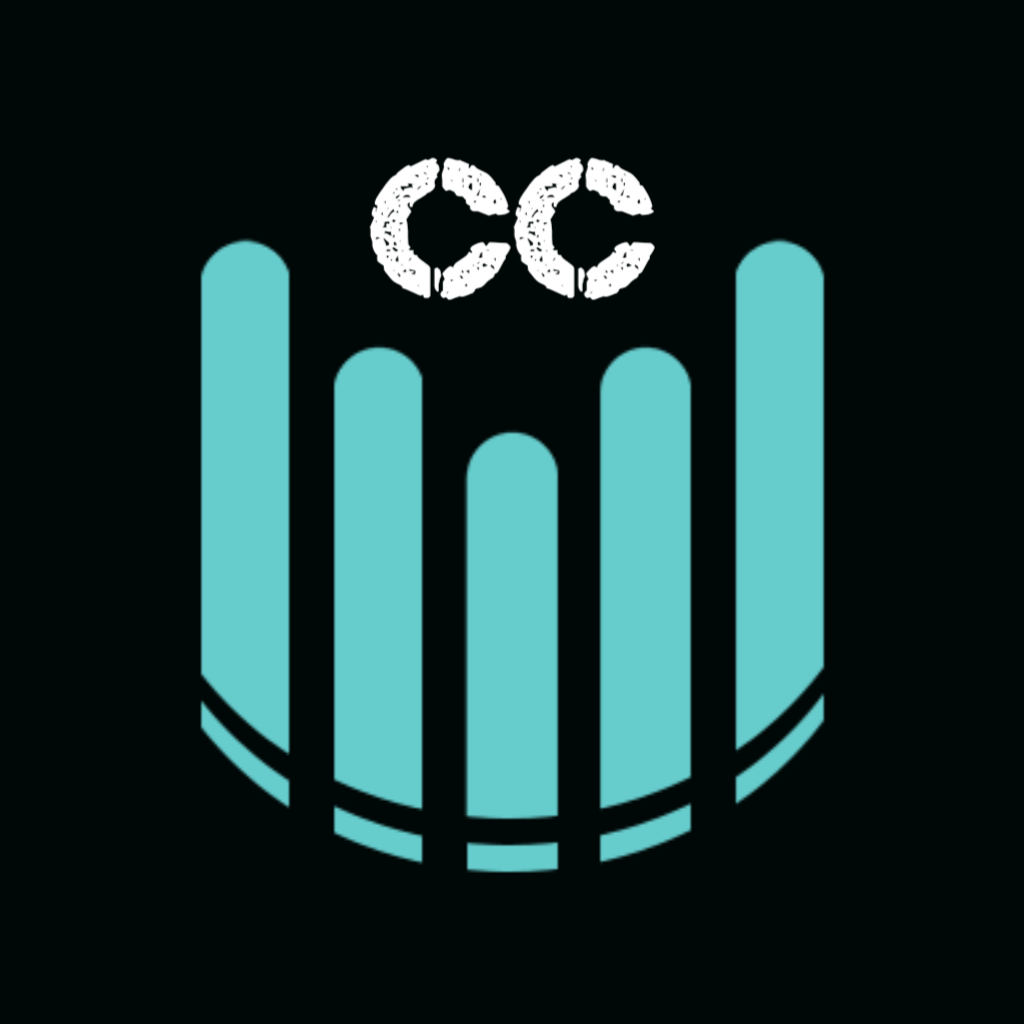
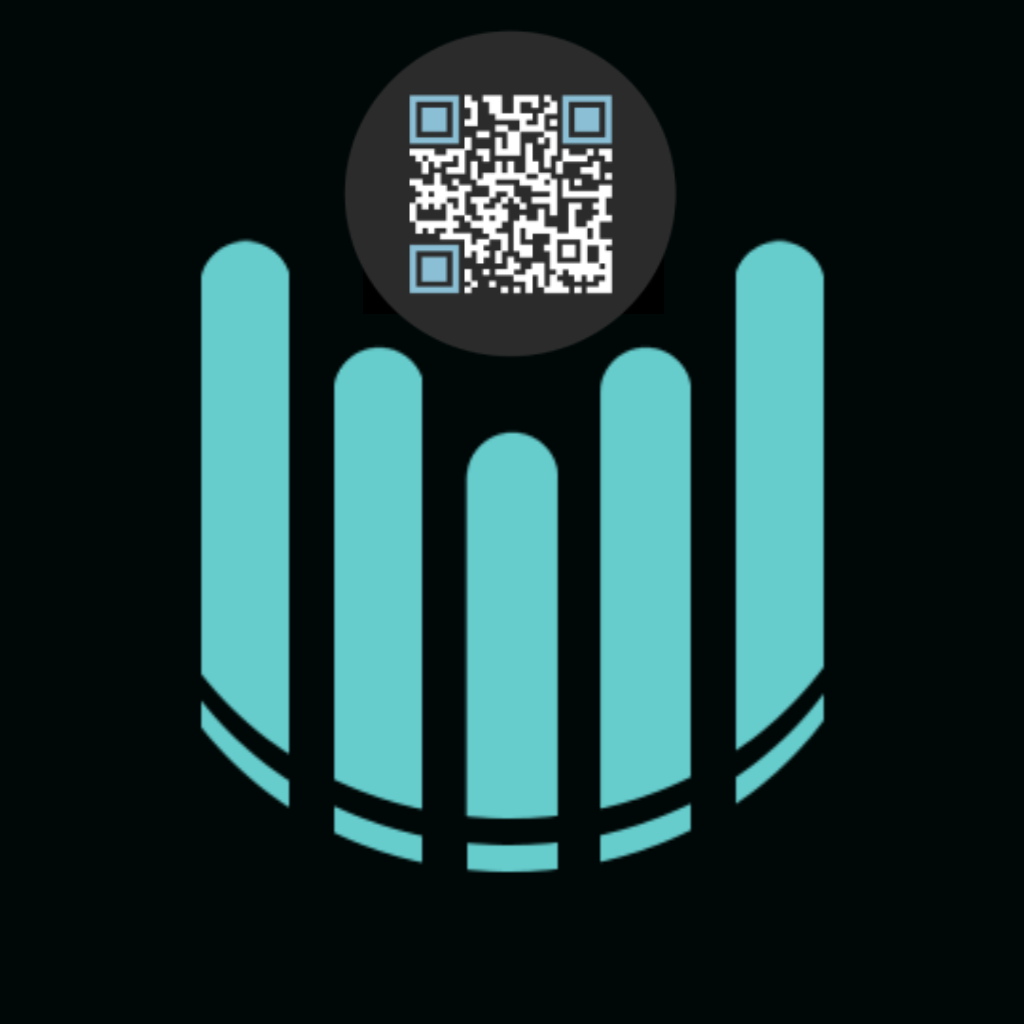
app con funcionalidad

Changed region(s): [[0.3125, 0.0312, 0.6562, 0.375]]

diff --git a/src/app/home/home.page.ts b/src/app/home/home.page.ts
@@ -1,12 +1,102 @@
-import { Component } from '@angular/core';
+import { Component, OnInit } from '@angular/core';
+import { AuthService } from '../servicios/auth.service';
+import { DataService } from '../servicios/data.service';
+import { ScannerService } from '../servicios/scanner.service';
+import { ToastService } from '../servicios/toast.service';
 
 @Component({
   selector: 'app-home',
   templateUrl: 'home.page.html',
   styleUrls: ['home.page.scss'],
 })
-export class HomePage {
+export class HomePage implements OnInit {
 
-  constructor() {}
+  email: string;
+  saldo: any;
+  idUser: string;
+  nombreUsuario: string;
 
+  constructor(
+    private scanner: ScannerService,
+    private dataServ: DataService,
+    private Afauth: AuthService,
+    private toast: ToastService ) {
+  }
+
+  ngOnInit() {
+    this.idUser = this.Afauth.getCurrentUserId();
+    this.email = this.Afauth.getCurrentUserMail();
+    this.dataServ.getUsuarioByUid(this.idUser).subscribe(res => {
+      this.saldo = res[0].saldo;
+    });
+    this.nombreUsuario = this.email.split('@')[0];
+  }
+
+  logOut() {
+    this.Afauth.logout();
+  }
+
+  scan() {
+    this.scanner.scan()
+      .then(barcodeData => {
+
+        // 8c95def646b6127282ed50454b73240300dccabc = 10
+        // ae338e4e0cbb4e4bcffaf9ce5b409feb8edd5172 = 50
+        // 2786f4877b9091dcad7f35751bfcf5d5ea712b2f = 100
+
+        switch (barcodeData.text) {
+
+          case '8c95def646b6127282ed50454b73240300dccabc':
+            if ( (this.saldo === 0) || (this.saldo === 50) || (this.saldo === 100) || (this.saldo === 150 )) {
+              this.acreditar(10);
+            } else {
+              this.toast.errorToast('No se puede repetir la carga');
+            }
+            break;
+
+          case 'ae338e4e0cbb4e4bcffaf9ce5b409feb8edd5172 ':
+            if (this.saldo === 0 || this.saldo === 10 || this.saldo === 100 || this.saldo === 110) {
+              this.acreditar(50);
+            } else {
+              this.toast.errorToast('No se puede repetir la carga');
+            }
+            break;
+
+          case '2786f4877b9091dcad7f35751bfcf5d5ea712b2f':
+            if (this.saldo === 0 || this.saldo === 10 || this.saldo === 50 || this.saldo === 60) {
+              this.acreditar(100);
+            } else {
+              this.toast.errorToast('No se puede repetir la carga');
+            }
+            break;
+
+          default:
+            break;
+        }
+      }).catch(err => {
+        console.log('Error', err);
+      });
+  }
+
+  acreditar(monto: number) {
+    console.log('monto', monto);
+    const montoFinal = this.saldo + monto;
+    this.dataServ.updateDatabase(this.idUser, montoFinal)
+      .then(res => {
+        this.toast.confirmationToast('La carga se acreditó correctamente');
+      })
+      .catch(err => {
+        this.toast.errorToast('Ocurrió un error durante la carga');
+      });
+  }
+
+  limpiar() {
+    this.dataServ.updateDatabase(this.idUser, 0)
+      .then(res => {
+        this.toast.confirmationToast('Tu carga fue anulada');
+      })
+      .catch(err => {
+        this.toast.errorToast('Ocurrió un error al anular tu carga');
+      });
+  }
 }

diff --git a/src/app/home/home.page.html b/src/app/home/home.page.html
@@ -1,23 +1,43 @@
-<ion-header [translucent]="true">
+<ion-header>
   <ion-toolbar color="secondary">
-    <ion-buttons slot="start">
-      <ion-back-button></ion-back-button>
-    </ion-buttons>
+    <ion-button slot="end" fill="clear" (click)="logOut()">
+      <ion-icon style="color: aliceblue" name="log-out"></ion-icon>
+    </ion-button>
     <ion-title>
-      HOME
+      Carga de crédito
     </ion-title>
   </ion-toolbar>
 </ion-header>
 
-<ion-content [fullscreen]="true" color="darkBlue">
-  <ion-header collapse="condense">
-    <ion-toolbar>
-      <ion-title size="large">Blank</ion-title>
-    </ion-toolbar>
-  </ion-header>
+<ion-content>
 
-  <div id="container">
-    <strong>¡Bienvenid@!</strong>
-    <p>Esta es la app Carga de Crédito</p>
+  <div class="ion-padding">
+    <ion-card color="secondary" style="margin-top: 15%;">
+      <ion-card-header style="text-align: center;">
+        <ion-card-title style="font-size:x-large; color: black;"> <b> Carga: {{saldo | currency}} </b></ion-card-title>
+      </ion-card-header>
+      <ion-card-content style="text-align: center;">
+        <ion-label style="color:black; font-size:large"> Usuario: {{ nombreUsuario }} </ion-label>
+      </ion-card-content>
+    </ion-card>
+    <div style="text-align: center; margin-top: 20%;">
+      <ion-label style="margin:0px; font-size: large; color: white;"> Click para escanear QR </ion-label>
+      <ion-button class="marks-buttons" color="secondary" expand="block" (click)="scan()">
+        <img src="../../assets/manoQr.png" alt="" style="width: 80%; height: 80%;">
+      </ion-button>
+    </div>
   </div>
+
 </ion-content>
+
+<ion-footer>
+
+  <ion-toolbar>
+
+    <ion-button color="secondary" expand="block" (click)="limpiar()">
+      <span showWhen="ios">Anular carga</span>
+      <ion-icon name="md-close" showWhen="core,android,windows"></ion-icon>
+    </ion-button>
+
+  </ion-toolbar>
+</ion-footer>

diff --git a/src/app/componentes/login/login.page.html b/src/app/componentes/login/login.page.html
@@ -17,9 +17,9 @@
 </ion-header>
 
 <ion-content padding color="darkBlue">
-  <img src="assets/icon/icon.png" alt="" class="icon">
+  <img src="assets/logoQr.png" alt="" class="icon" style="margin-top: 15%;">
   <ion-label [hidden]='datosCorrectos' class="datos-incorrectos">Datos incorrectos</ion-label> 
-<ion-item color="darkBlue">
+<ion-item color="darkBlue" style="margin-top: 20%;">
   <ion-label position="floating">Correo electrónico</ion-label> 
   <ion-input type="text" [(ngModel)]="correo" name="correo"></ion-input>
 </ion-item> 
@@ -28,13 +28,14 @@
   <ion-input type="password" [(ngModel)]="clave" name="clave"></ion-input>
 </ion-item>
 <br>
-<ion-button expand="block" (click) = "onSubmitLogin()" color="secondary">Entrar</ion-button>
+<ion-button expand="block" (click) = "onSubmitLogin()" color="secondary" style="height: 55px;">Entrar</ion-button>
 
-<ion-item color="darkBlue">
-  <ion-label position="stacked">Usuario</ion-label>
-  <ion-select (ionChange)="onChange($event.target.value)" placeholder="Seleccione uno: ">
-    <ion-select-option *ngFor="let usuario of usuarios" value={{usuario.id}}> {{usuario.nombre}} </ion-select-option>
-  </ion-select>
-</ion-item>
+<div style="margin-top: 3%;">
+  <ion-button class="botones-3" fill="outline" (click)="onChange(0)">Admin</ion-button>
+  <ion-button class="botones-3" fill="outline" (click)="onChange(1)">Invitado</ion-button>
+  <ion-button class="botones-3" fill="outline" (click)="onChange(2)">Usuario</ion-button>
+  <ion-button class="botones-2" fill="outline" (click)="onChange(3)">Anónimo</ion-button>
+  <ion-button class="botones-2" fill="outline" (click)="onChange(4)">Tester</ion-button>
+</div>
 
 </ion-content>

diff --git a/src/app/servicios/data.service.ts b/src/app/servicios/data.service.ts
@@ -1,0 +1,53 @@
+import { Injectable } from '@angular/core';
+import { AngularFirestore, AngularFirestoreCollection } from '@angular/fire/firestore';
+import { AuthService } from './auth.service';
+import { map } from 'rxjs/operators';
+
+interface Usuario {
+  id: string;
+  saldo: number;
+  perfil: string;
+}
+
+@Injectable({
+  providedIn: 'root'
+})
+export class DataService {
+
+  dbRef: AngularFirestoreCollection<any>;
+
+  constructor(private db: AngularFirestore) {
+    this.dbRef = this.db.collection('usuarios');
+  }
+
+  getUsuarios() {
+    return this.dbRef.snapshotChanges().pipe(
+      map(saldo => {
+        return saldo.map(c => {
+          const data = c.payload.doc.data() as Usuario;
+          data.id = c.payload.doc.id;
+          return data;
+        });
+      }));
+  }
+
+  getUsuarioByUid(uid: string) {
+    return this.getUsuarios().pipe(
+      map(user => {
+        return user.filter(usuario => {
+          return usuario.id === uid;
+        });
+      })
+    );
+  }
+
+  updateDatabase(id, saldoParam) {
+    console.log('update id: ', id, 'saldo: ', saldoParam);
+    return this.dbRef.doc(id).update({
+      saldo: saldoParam
+    });
+  }
+}
+
+
+

diff --git a/src/app/servicios/scanner.service.ts b/src/app/servicios/scanner.service.ts
@@ -1,0 +1,28 @@
+import { Injectable } from '@angular/core';
+import { BarcodeScannerOptions, BarcodeScanner } from '@ionic-native/barcode-scanner/ngx';
+
+const opciones: BarcodeScannerOptions = {
+  preferFrontCamera: false, // iOS and Android
+  showFlipCameraButton: true, // iOS and Android
+  // showTorchButton: true, // iOS and Android
+  // torchOn: true, // Android, launch with the torch switched on (if available)
+  // saveHistory: true, // Android, save scan history (default false)
+  prompt: 'Scanee el código QR', // Android
+  resultDisplayDuration: 500, // Android, display scanned text for X ms. 0 suppresses it entirely, default 1500
+  // formats: 'PDF_417', // default: all but PDF_417 and RSS_EXPANDED
+  // orientation: 'landscape', // Android only (portrait|landscape), default unset so it rotates with the device
+  disableAnimations: true, // iOS
+  disableSuccessBeep: false // iOS and Android
+};
+
+@Injectable({
+  providedIn: 'root'
+})
+export class ScannerService {
+
+  constructor(public barcodeScanner: BarcodeScanner) { }
+
+  scan() {
+    return this.barcodeScanner.scan(opciones);
+  }
+}

diff --git a/src/app/app.module.ts b/src/app/app.module.ts
@@ -15,6 +15,9 @@ import { AngularFireModule } from '@angular/fire';
 import { AngularFirestoreModule } from '@angular/fire/firestore';
 import { AngularFireAuthModule } from '@angular/fire/auth';
 
+// Scanner de codigo qr
+import { BarcodeScanner } from '@ionic-native/barcode-scanner/ngx';
+
 @NgModule({
   declarations: [AppComponent],
   entryComponents: [],
@@ -26,7 +29,8 @@ import { AngularFireAuthModule } from '@angular/fire/auth';
   providers: [
     StatusBar,
     SplashScreen,
-    { provide: RouteReuseStrategy, useClass: IonicRouteStrategy }
+    { provide: RouteReuseStrategy, useClass: IonicRouteStrategy },
+    BarcodeScanner
   ],
   bootstrap: [AppComponent]
 })

diff --git a/src/app/servicios/toast.service.ts b/src/app/servicios/toast.service.ts
@@ -1,0 +1,28 @@
+import { Injectable } from '@angular/core';
+import { ToastController } from '@ionic/angular';
+
+@Injectable({
+  providedIn: 'root'
+})
+export class ToastService {
+
+  constructor(private toastController: ToastController) { }
+
+  async errorToast(messageParam: string) {
+    const toast = await this.toastController.create({
+      message: messageParam,
+      duration: 4000,
+      color: 'danger'
+    });
+    toast.present();
+  }
+
+  async confirmationToast(messageParam: string) {
+    const toast = await this.toastController.create({
+      message: messageParam,
+      duration: 4000,
+      color: 'success'
+    });
+    toast.present();
+  }
+}

diff --git a/src/app/home/home.page.scss b/src/app/home/home.page.scss
@@ -1,31 +1,13 @@
-#container {
-  text-align: center;
 
-  position: absolute;
-  left: 0;
-  right: 0;
-  top: 50%;
-  transform: translateY(-50%);
+.marks-buttons{
+    height: 250px;
+    margin: 5px 30px;
 }
 
-#container strong {
-  font-size: 20px;
-  line-height: 26px;
+ion-content{
+  --ion-background-color: #17176c;
 }
 
-#container p {
-  font-size: 16px;
-  line-height: 22px;
-
-  color: #8c8c8c;
-
-  margin: 0;
-}
-
-#container a {
-  text-decoration: none;
-}
-
-ion-content ion-toolbar {
-  --background: translucent;
+ion-toolbar{
+  --ion-background-color: #17176c;
 }

diff --git a/src/app/servicios/auth.service.ts b/src/app/servicios/auth.service.ts
@@ -26,4 +26,12 @@ export class AuthService {
       this.router.navigate(['/login']);
     });
   }
+
+  getCurrentUserId(): string {
+    return this.AFauth.auth.currentUser ? this.AFauth.auth.currentUser.uid : null;
+  }
+
+  getCurrentUserMail(): string {
+    return this.AFauth.auth.currentUser.email;
+  }
 }

diff --git a/src/app/componentes/login/login.page.scss b/src/app/componentes/login/login.page.scss
@@ -44,6 +44,14 @@
     margin-left: 4%;
   }
 
+  .botones-3 {
+    width: 32%;
+  }
+
+  .botones-2 {
+    width: 48%;
+  }
+
   @keyframes pulse {
     0% {
       opacity:0;
